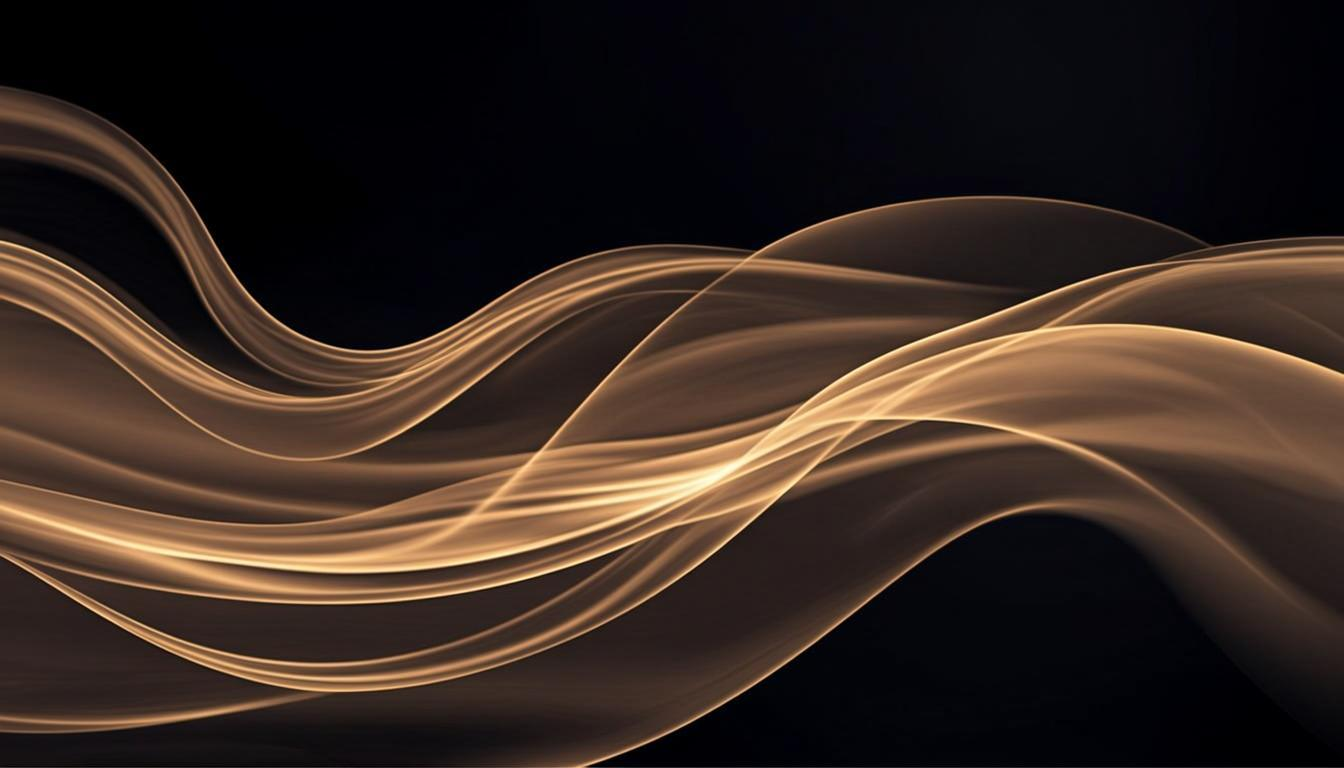
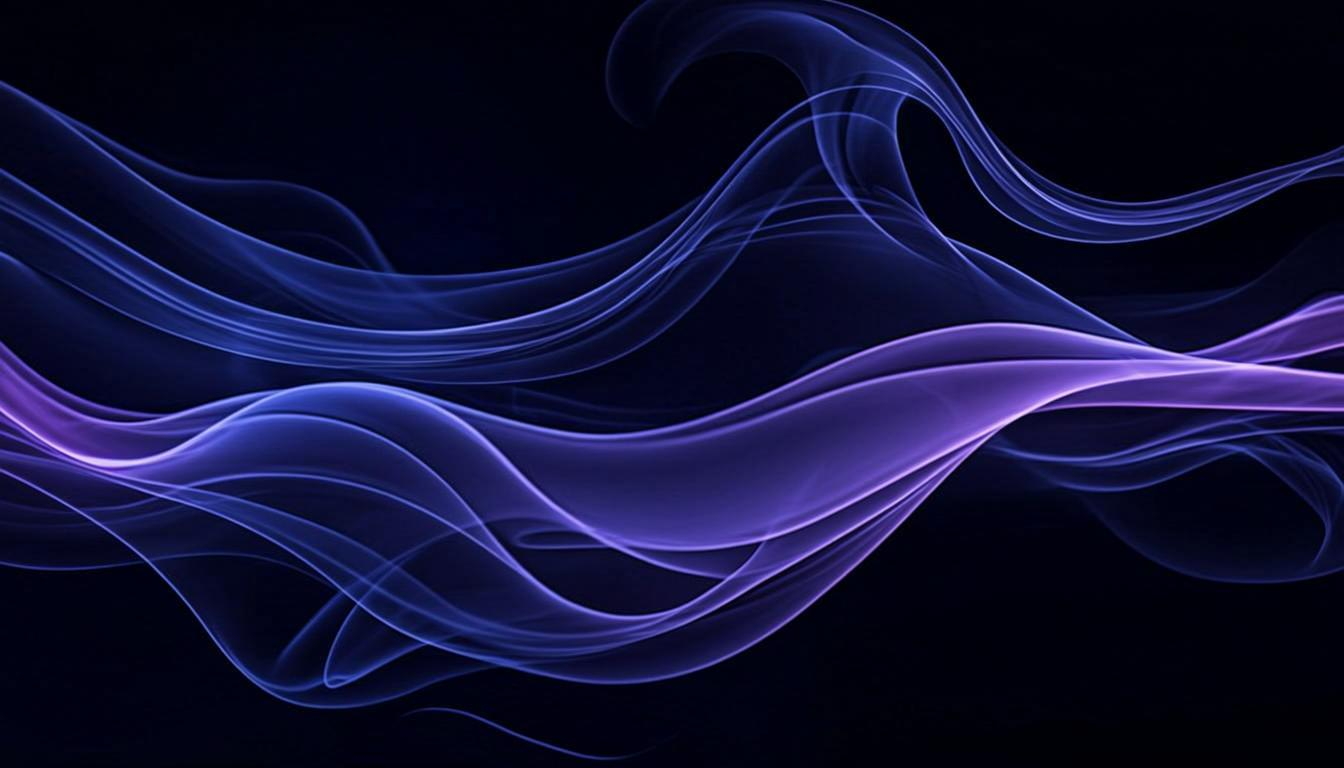
abb03b0c-9b2f-45b9-8b62-c5147b638684

diff --git a/src/app/page.tsx b/src/app/page.tsx
@@ -756,13 +756,12 @@ export default function Home() {
             transition={{ duration: 0.8 }}
           >
             <motion.div variants={fadeInUp} transition={{ duration: 0.8 }}>
-              <div className="mx-auto mb-8 w-36 h-36 sm:w-44 sm:h-44 md:w-52 md:h-52 rounded-full overflow-hidden animate-float shadow-lg shadow-black/30">
-                <Image
+              <div className="mx-auto mb-8 w-36 h-36 sm:w-44 sm:h-44 md:w-52 md:h-52 rounded-full overflow-hidden animate-float shadow-lg shadow-black/30 relative">
+                {/* eslint-disable-next-line @next/next/no-img-element */}
+                <img
                   src="/images/logo-etersomos.jpg"
                   alt="Eter Somos"
-                  width={200}
-                  height={200}
-                  className="w-full h-full object-cover"
+                  className="w-full h-full object-cover rounded-full"
                 />
               </div>
             </motion.div>
